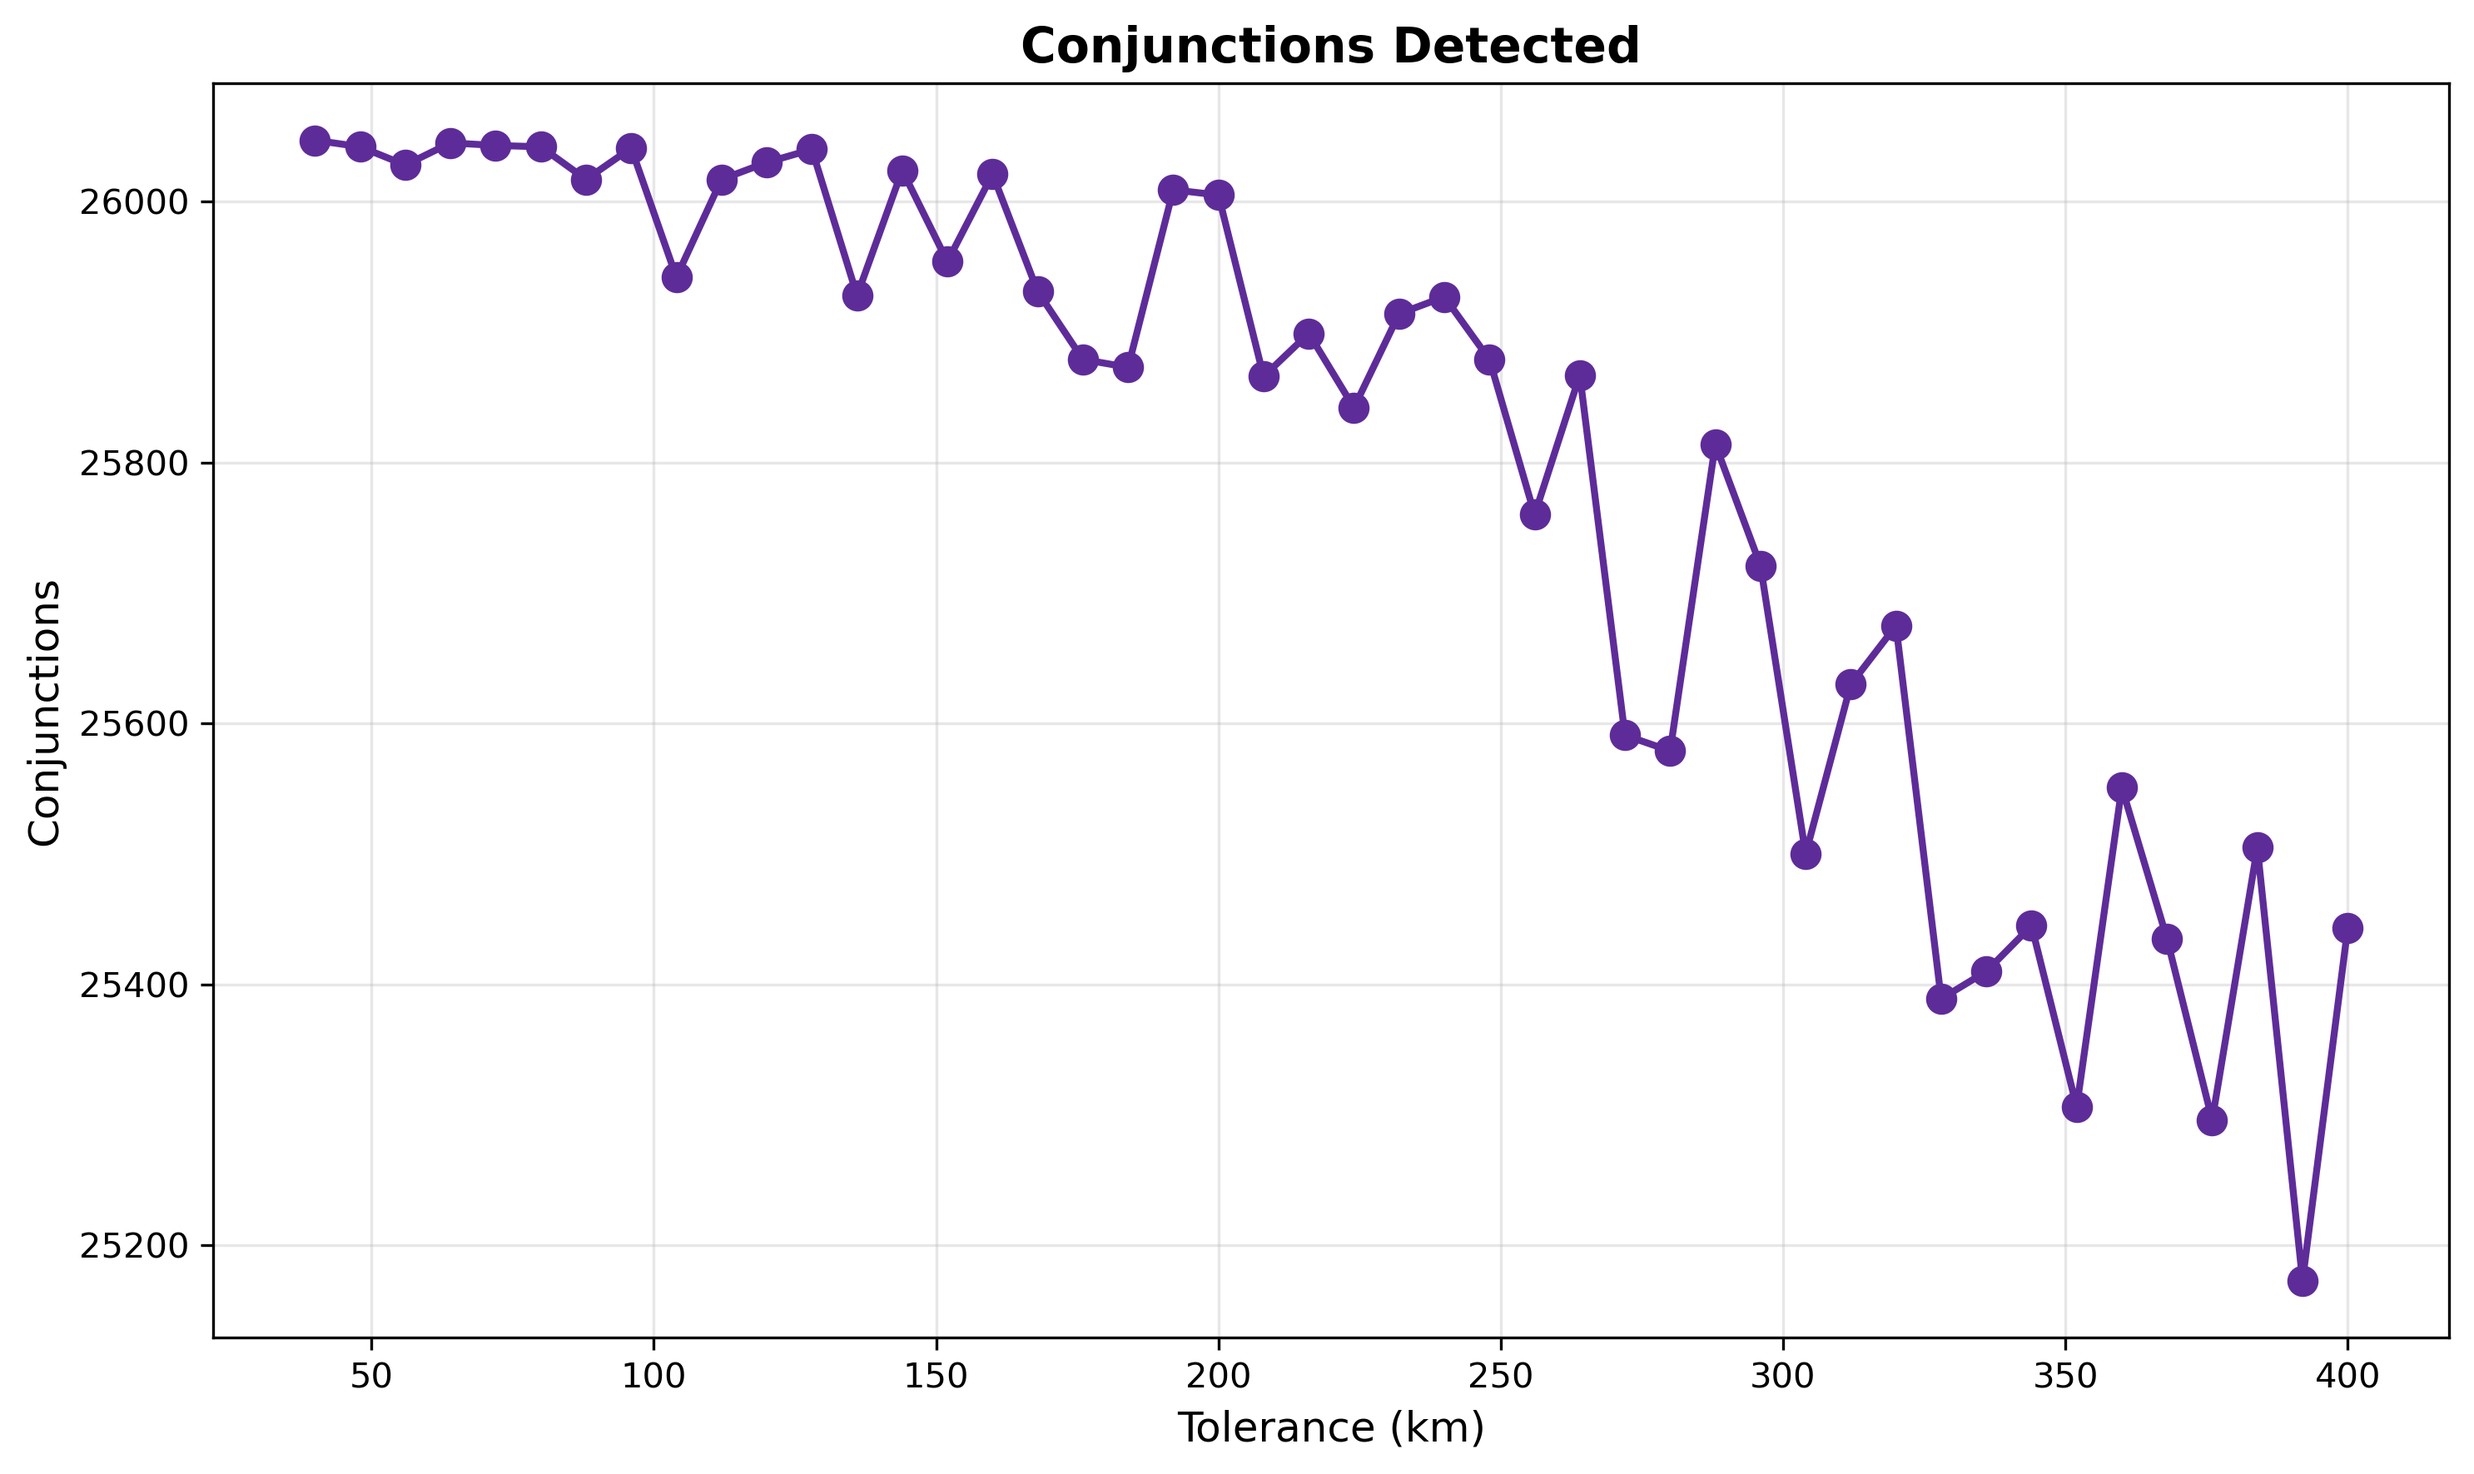
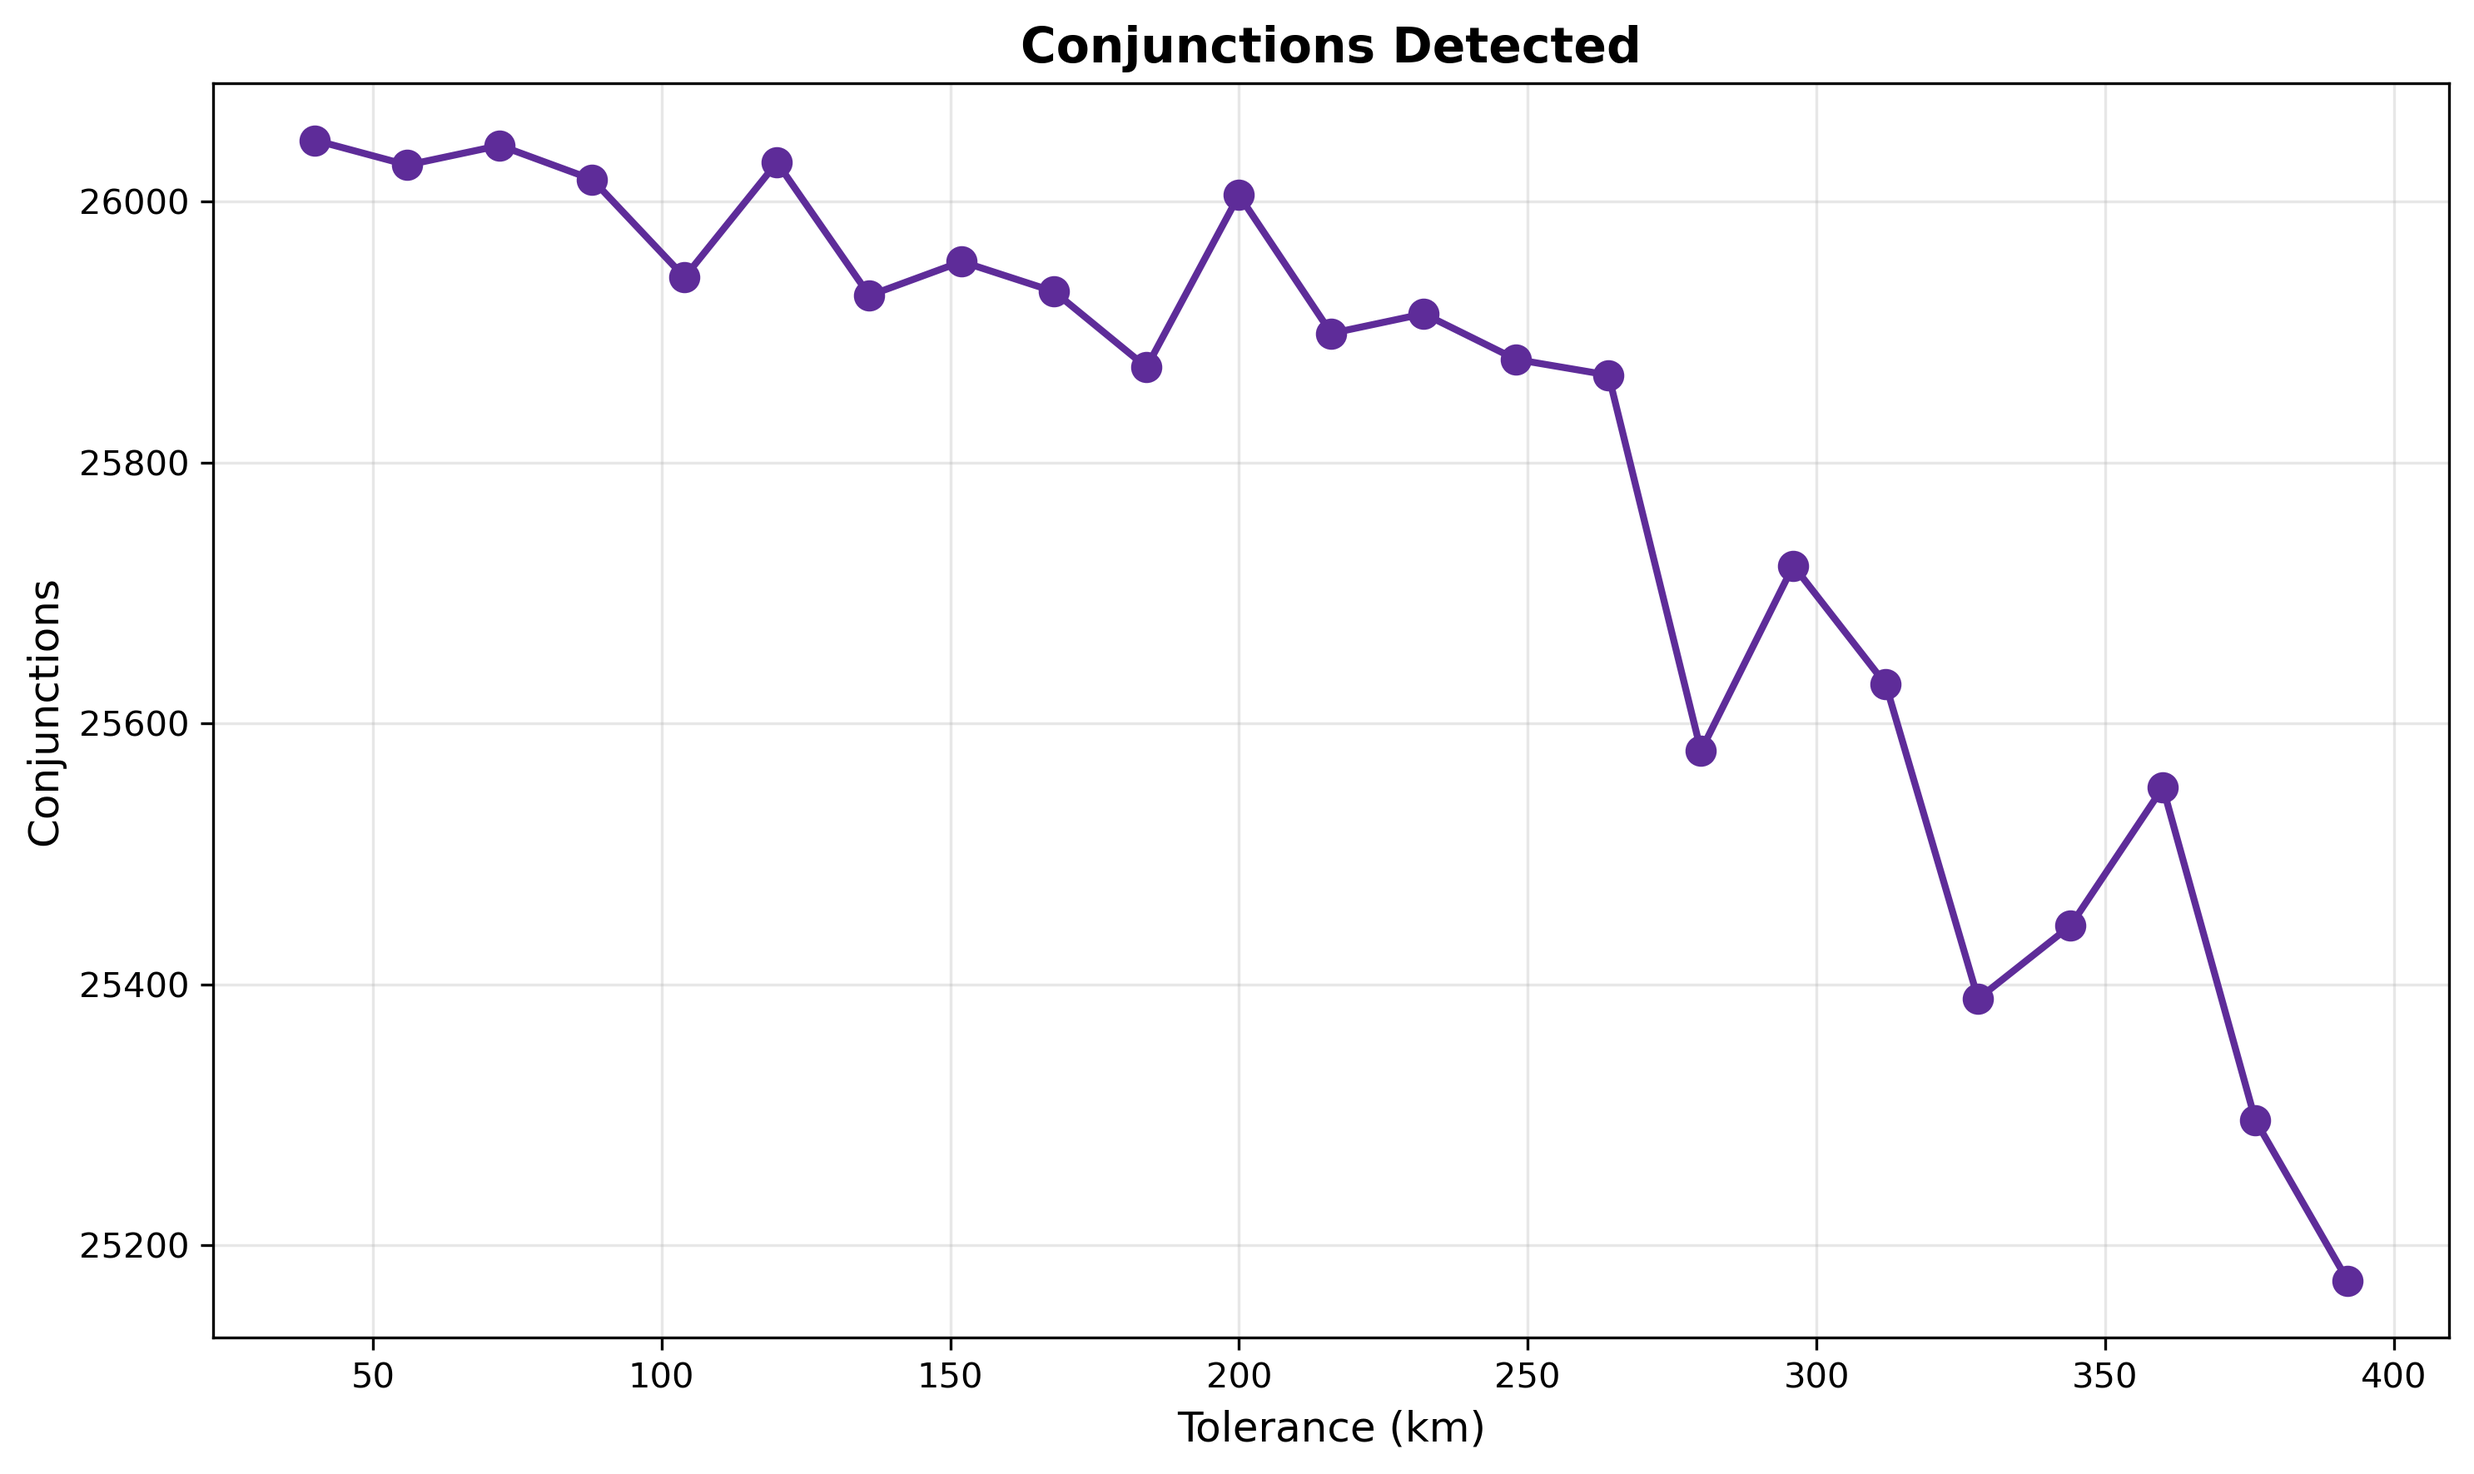
Optimize grouping stage

diff --git a/src/main/java/io/salad109/conjunctiondetector/conjunction/internal/ScanService.java b/src/main/java/io/salad109/conjunctiondetector/conjunction/internal/ScanService.java
@@ -9,12 +9,7 @@ import org.orekit.utils.PVCoordinates;
 import org.springframework.stereotype.Service;
 
 import java.time.OffsetDateTime;
-import java.time.temporal.ChronoUnit;
-import java.util.ArrayList;
-import java.util.Comparator;
-import java.util.List;
-import java.util.Map;
-import java.util.stream.Collectors;
+import java.util.*;
 import java.util.stream.IntStream;
 
 @Service
@@ -58,7 +53,7 @@ public class ScanService {
 
                         double distSq = precomputedPositions.distanceSquaredAt(idxA, idxB, step);
                         if (distSq < tolSq) {
-                            consumer.accept(new CoarseDetection(pair, precomputedPositions.times()[step], distSq, step));
+                            consumer.accept(new CoarseDetection(pair, distSq, step));
                         }
                     });
                 })
@@ -69,53 +64,42 @@ public class ScanService {
      * Group detections by pair, then cluster consecutive detections into events (orbital passes).
      * Two detections belong to the same event if they're within 3 steps of each other.
      */
-    public Map<SatellitePair, List<List<CoarseDetection>>> groupIntoEvents(List<CoarseDetection> detections, int stepSeconds) {
-        // Group by pair
-        Map<SatellitePair, List<CoarseDetection>> byPair = detections.stream()
-                .collect(Collectors.groupingBy(CoarseDetection::pair));
+    public Map<SatellitePair, List<List<CoarseDetection>>> groupIntoEvents(List<CoarseDetection> detections) {
+        List<CoarseDetection> sorted = detections.parallelStream()
+                .sorted(Comparator
+                        .comparingInt((CoarseDetection d) -> d.pair().a().getNoradCatId())
+                        .thenComparingInt(d -> d.pair().b().getNoradCatId())
+                        .thenComparingInt(CoarseDetection::stepIndex))
+                .toList();
 
-        // Cluster each pair's detections by time gap
-        int gapThresholdSeconds = stepSeconds * 3;
+        Map<SatellitePair, List<List<CoarseDetection>>> result = new HashMap<>();
+        if (sorted.isEmpty()) return result;
 
-        return byPair.entrySet().parallelStream()
-                .collect(Collectors.toMap(
-                        Map.Entry::getKey,
-                        entry -> {
-                            List<CoarseDetection> sorted = entry.getValue().stream()
-                                    .sorted(Comparator.comparing(CoarseDetection::time))
-                                    .toList();
-                            return clusterByTimeGap(sorted, gapThresholdSeconds);
-                        }
-                ));
-    }
-
-    /**
-     * Cluster sorted detections into groups where consecutive items are within gapThresholdSeconds.
-     */
-    private List<List<CoarseDetection>> clusterByTimeGap(List<CoarseDetection> sorted, int gapThresholdSeconds) {
-        List<List<CoarseDetection>> clusters = new ArrayList<>();
-        if (sorted.isEmpty()) return clusters;
-
+        SatellitePair currentPair = sorted.getFirst().pair();
         List<CoarseDetection> currentCluster = new ArrayList<>();
+        List<List<CoarseDetection>> currentEvents = new ArrayList<>();
         currentCluster.add(sorted.getFirst());
 
         for (int i = 1; i < sorted.size(); i++) {
             CoarseDetection prev = sorted.get(i - 1);
             CoarseDetection curr = sorted.get(i);
 
-            long gapSeconds = ChronoUnit.SECONDS.between(prev.time(), curr.time());
-
-            if (gapSeconds <= gapThresholdSeconds) {
-                currentCluster.add(curr);
-            } else {
-                clusters.add(currentCluster);
+            if (!curr.pair().equals(currentPair)) {
+                currentEvents.add(currentCluster);
+                result.put(currentPair, currentEvents);
+                currentPair = curr.pair();
+                currentEvents = new ArrayList<>();
                 currentCluster = new ArrayList<>();
-                currentCluster.add(curr);
+            } else if (curr.stepIndex() - prev.stepIndex() > 3) {
+                currentEvents.add(currentCluster);
+                currentCluster = new ArrayList<>();
             }
+            currentCluster.add(curr);
         }
-        clusters.add(currentCluster);
+        currentEvents.add(currentCluster);
+        result.put(currentPair, currentEvents);
 
-        return clusters;
+        return result;
     }
 
     /**
@@ -198,7 +182,7 @@ public class ScanService {
     }
 
 
-    public record CoarseDetection(SatellitePair pair, OffsetDateTime time, double distanceSq, int stepIndex) {
+    public record CoarseDetection(SatellitePair pair, double distanceSq, int stepIndex) {
     }
 
     public record RefinedEvent(SatellitePair pair, double distanceKm, OffsetDateTime tca, double relativeVelocityKmS,

diff --git a/src/main/java/io/salad109/conjunctiondetector/conjunction/internal/ConjunctionBenchmark.java b/src/main/java/io/salad109/conjunctiondetector/conjunction/internal/ConjunctionBenchmark.java
@@ -141,7 +141,7 @@ public class ConjunctionBenchmark implements CommandLineRunner {
 
         // Group into events
         StopWatch grouping = StopWatch.createStarted();
-        Map<SatellitePair, List<List<ScanService.CoarseDetection>>> eventsByPair = scanService.groupIntoEvents(detections, stepSeconds);
+        Map<SatellitePair, List<List<ScanService.CoarseDetection>>> eventsByPair = scanService.groupIntoEvents(detections);
         int totalEvents = eventsByPair.values().stream().mapToInt(List::size).sum();
         List<List<ScanService.CoarseDetection>> allEvents = eventsByPair.values().stream()
                 .flatMap(List::stream)

diff --git a/src/main/java/io/salad109/conjunctiondetector/conjunction/internal/AccuracyBenchmark.java b/src/main/java/io/salad109/conjunctiondetector/conjunction/internal/AccuracyBenchmark.java
@@ -170,7 +170,7 @@ public class AccuracyBenchmark implements CommandLineRunner {
         checkPairs.stop();
 
         StopWatch grouping = StopWatch.createStarted();
-        Map<SatellitePair, List<List<ScanService.CoarseDetection>>> eventsByPair = scanService.groupIntoEvents(detections, stepSeconds);
+        Map<SatellitePair, List<List<ScanService.CoarseDetection>>> eventsByPair = scanService.groupIntoEvents(detections);
         int totalEvents = eventsByPair.values().stream().mapToInt(List::size).sum();
         List<List<ScanService.CoarseDetection>> allEvents = eventsByPair.values().stream()
                 .flatMap(List::stream)

diff --git a/src/main/java/io/salad109/conjunctiondetector/conjunction/ConjunctionService.java b/src/main/java/io/salad109/conjunctiondetector/conjunction/ConjunctionService.java
@@ -134,7 +134,7 @@ public class ConjunctionService {
         log.debug("Coarse sweep found {} detections", detections.size());
 
         // Group into events
-        Map<SatellitePair, List<List<ScanService.CoarseDetection>>> eventsByPair = scanService.groupIntoEvents(detections, stepSeconds);
+        Map<SatellitePair, List<List<ScanService.CoarseDetection>>> eventsByPair = scanService.groupIntoEvents(detections);
         List<List<ScanService.CoarseDetection>> allEvents = eventsByPair.values().stream()
                 .flatMap(List::stream)
                 .toList();

diff --git a/docs/6-conjunction-tolerance/README.md b/docs/6-conjunction-tolerance/README.md
@@ -12,15 +12,15 @@ detections. The optimum balances propagation cost against grouping cost.
 - **interpolation-stride**: Fixed at 24
 - **lookahead-hours**: Fixed at 24
 - **threshold-km**: Fixed at 5.0 km
-- **tolerance-km**: Swept 40-400 km (step 8 km)
+- **tolerance-km**: Swept 40-400 km
 - **iterations**: 1 per configuration
 
 ## Results
 
-Total time bottoms out around 150 km then rises steadily as grouping cost dominates. SGP4 cost
+Total time bottoms out around 157 km then rises steadily as grouping cost dominates. SGP4 cost
 drops with larger tolerance (fewer time steps) but grouping grows faster than SGP4 shrinks.
 
-Optimum is **152 km** - the coarse and refine stages of the pipeline are balanced.
+Optimum is **160 km** - the coarse and refine stages of the pipeline are balanced.
 
 ![Total Processing Time](1_total_time.png)
 
